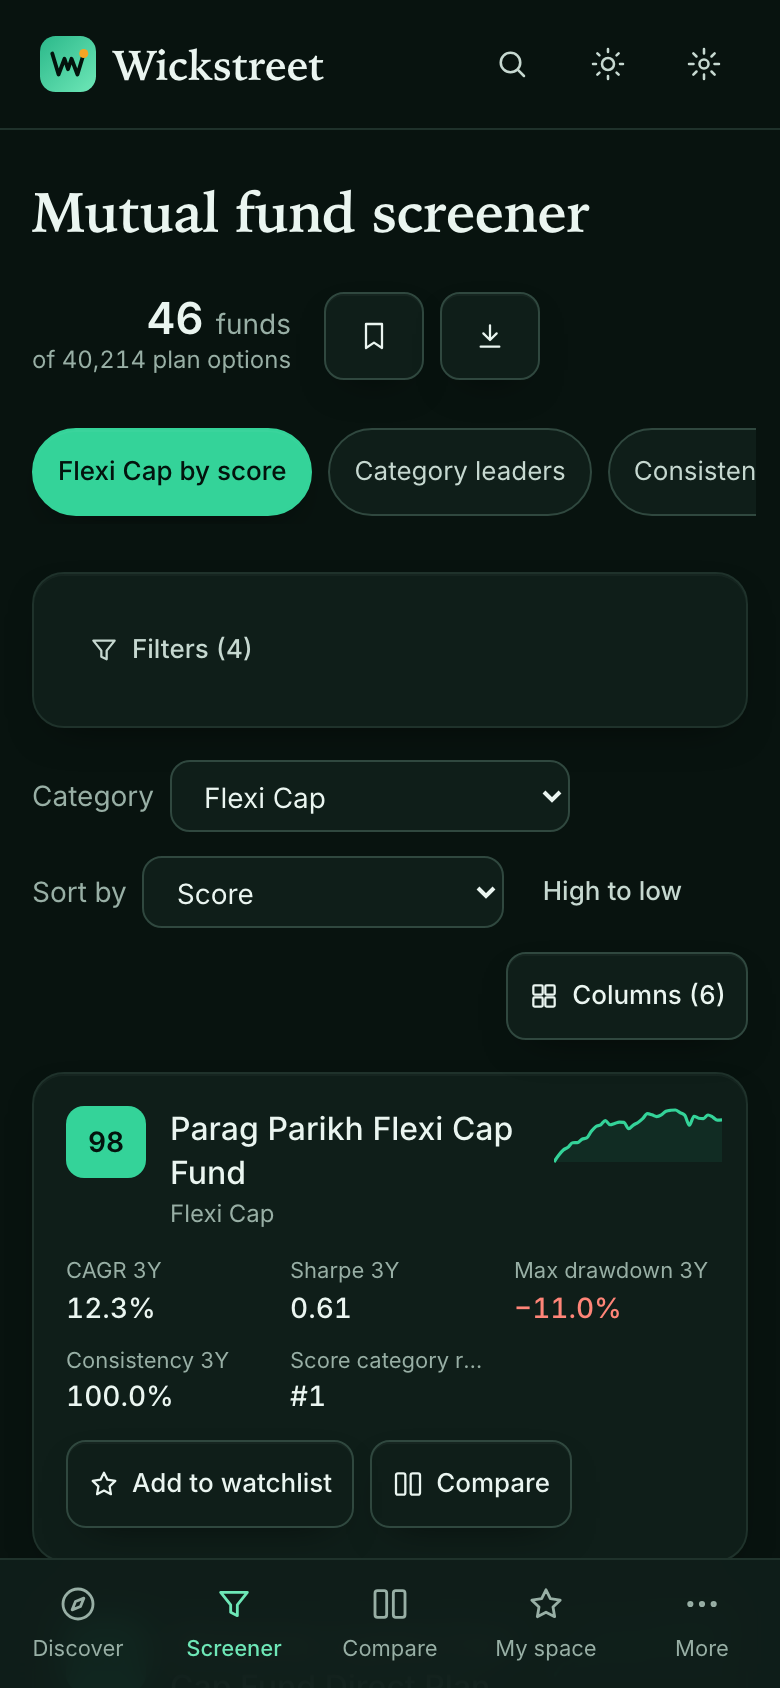
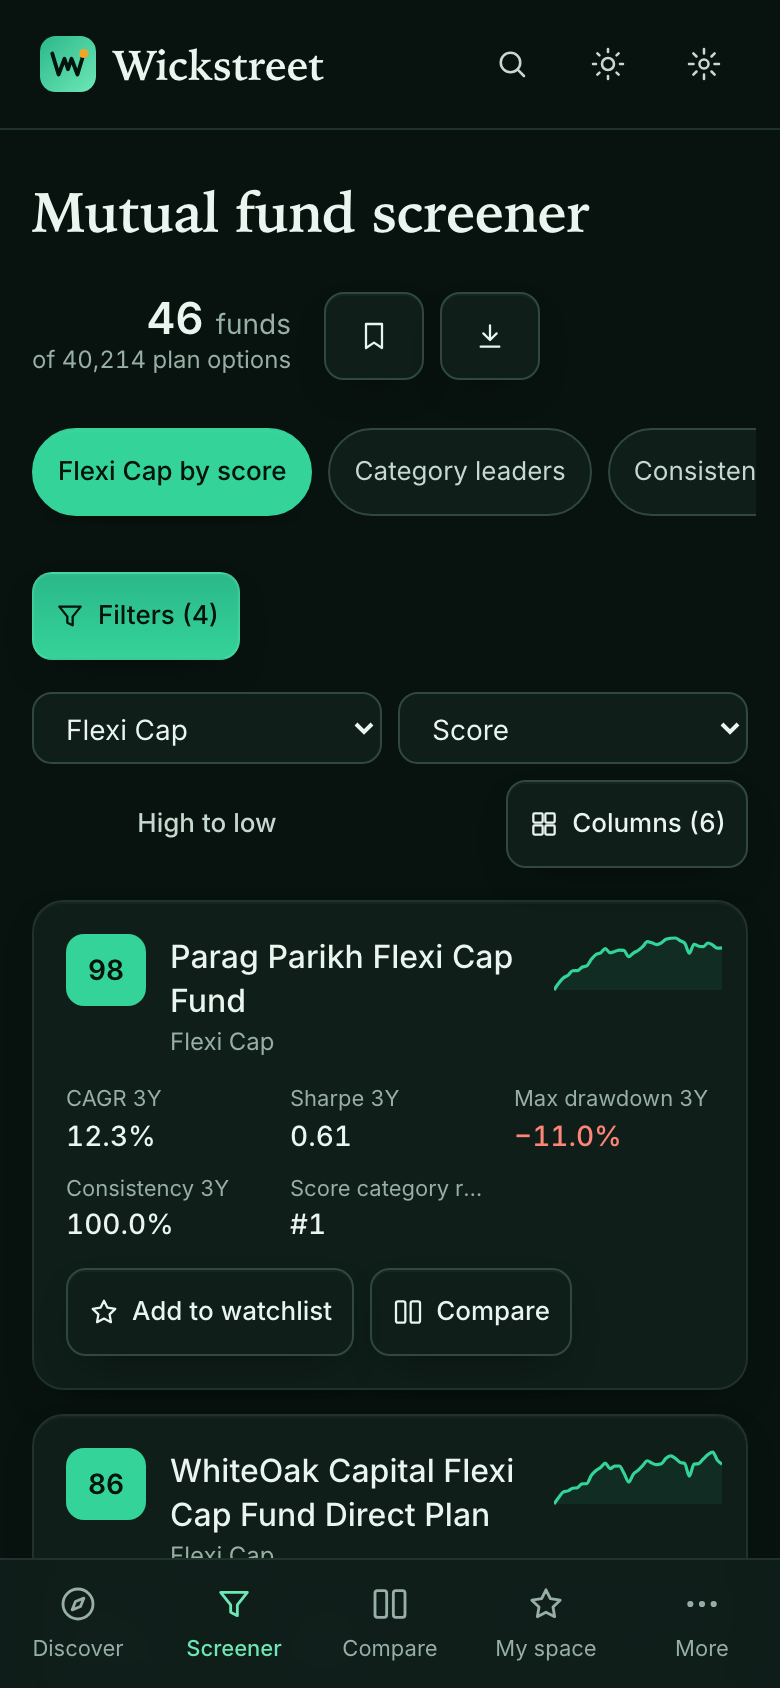
fix(wickstreet): bring phone screener results higher
On phones the Filters button stands alone without a card, and the
category, sort, direction and columns controls share two rows. The
first result starts about 90 px higher; a second fund shows on the
first screen.

diff --git a/web/src/features/mf/routes/screen.tsx b/web/src/features/mf/routes/screen.tsx
@@ -229,7 +229,7 @@ export default function Screen() {
 
         <div className="min-w-0 space-y-4">
           {/* Conditions */}
-          <section aria-label="Conditions" className="rounded-card border border-mf-line bg-mf-surface p-4 shadow-card">
+          <section aria-label="Conditions" className="lg:rounded-card lg:border lg:border-mf-line lg:bg-mf-surface lg:p-4 lg:shadow-card">
             <div className="flex flex-wrap items-center gap-2">
               {filterMode === 'advanced' && <Segmented
                 label="Match"
@@ -251,7 +251,7 @@ export default function Screen() {
                   {describe(c, byId, short)}
                 </Chip>
               ))}
-              <Button size="sm" variant="ghost" className="lg:hidden" onClick={() => { setDraft(filterMode === 'advanced' ? view : null); setFiltersOpen(true); }}>
+              <Button size="sm" variant="primary" className="lg:hidden" onClick={() => { setDraft(filterMode === 'advanced' ? view : null); setFiltersOpen(true); }}>
                 <I.screen className="h-4 w-4" />
                 Filters ({view.conditions.length})
               </Button>
@@ -283,10 +283,10 @@ export default function Screen() {
           </section>
 
           {/* Result controls */}
-          <div className="flex flex-wrap items-center gap-2">
-            <label className="flex items-center gap-2 whitespace-nowrap text-sm text-mf-muted">
-              Category
-              <select className={cx(inputClass, 'h-9 w-auto max-w-[200px]')} value={categoryOf(view) ?? ''} onChange={(e) => setView(withCategory(view, e.target.value || null))}>
+          <div className="grid grid-cols-2 items-center gap-2 sm:flex sm:flex-wrap">
+            <label className="flex min-w-0 items-center gap-2 whitespace-nowrap text-sm text-mf-muted">
+              <span className="max-sm:sr-only">Category</span>
+              <select className={cx(inputClass, 'h-9 max-sm:w-full sm:w-auto sm:max-w-[200px]')} value={categoryOf(view) ?? ''} onChange={(e) => setView(withCategory(view, e.target.value || null))}>
                 <option value="">All categories</option>
                 {(fields.byId.get('category')?.values ?? []).filter((c) => c !== 'Unclassified').map((c) => (
                   <option key={c} value={c}>
@@ -295,9 +295,9 @@ export default function Screen() {
                 ))}
               </select>
             </label>
-            <label className="flex items-center gap-2 whitespace-nowrap text-sm text-mf-muted">
-              Sort by
-              <select className={cx(inputClass, 'h-9 w-auto')} value={view.sort[0]?.field ?? ''} onChange={(e) => setView({ ...view, sort: [{ field: e.target.value, dir: view.sort[0]?.dir ?? 'desc' }] })}>
+            <label className="flex min-w-0 items-center gap-2 whitespace-nowrap text-sm text-mf-muted">
+              <span className="max-sm:sr-only">Sort by</span>
+              <select className={cx(inputClass, 'h-9 max-sm:w-full sm:w-auto')} value={view.sort[0]?.field ?? ''} onChange={(e) => setView({ ...view, sort: [{ field: e.target.value, dir: view.sort[0]?.dir ?? 'desc' }] })}>
                 {[...new Set([...(view.sort[0] ? [view.sort[0].field] : []), ...view.columns])].map((c) => (
                   <option key={c} value={c}>
                     {columnLabel(c, byId)}
@@ -306,11 +306,11 @@ export default function Screen() {
               </select>
             </label>
             {view.sort[0] && (
-              <Button size="sm" variant="ghost" onClick={() => onSort(view.sort[0].field)} title="Reverse the sort">
+              <Button size="sm" variant="ghost" className="justify-self-start" onClick={() => onSort(view.sort[0].field)} title="Reverse the sort">
                 {view.sort[0].dir === 'desc' ? 'High to low' : 'Low to high'}
               </Button>
             )}
-            <div className="ml-auto flex gap-2">
+            <div className="flex justify-end gap-2 sm:ml-auto">
               <Button size="sm" onClick={() => setColumnsOpen(true)}>
                 <I.grid className="h-4 w-4" />
                 Columns ({view.columns.length})
